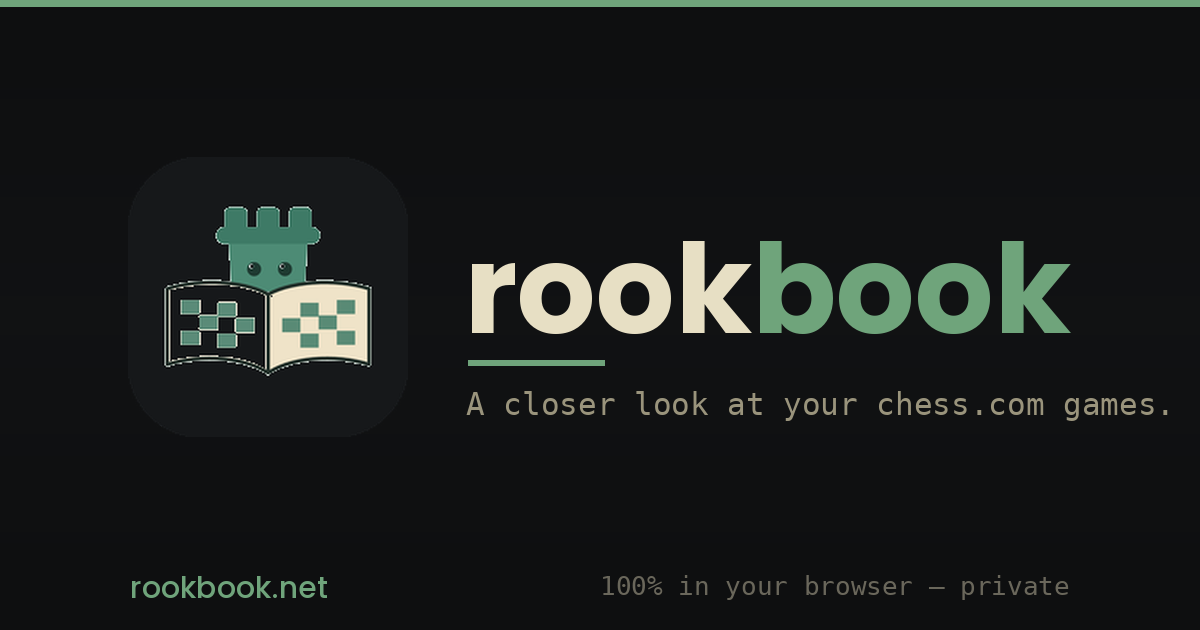
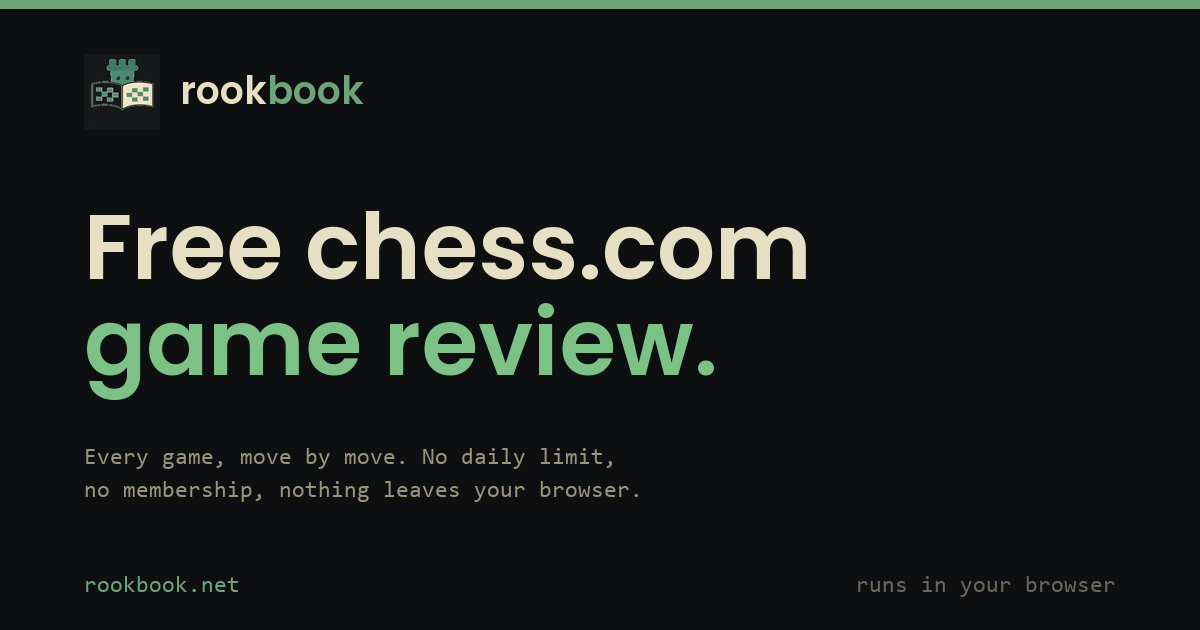
Lead with the free reviewer: new og card, welcome screen, outage page, review counter
og.png rebuilt to read Free chess.com game review instead of the generic
tagline. This is the card every shared link renders, including the forum
post, so it was the highest-visibility surface still saying nothing about
the flagship.

App welcome screen now headlines the free reviewer and adds Game Review as
the first feature card; it was missing from the first-run grid entirely.

is-chess-com-down.html gains its natural angle: when Chess.com is down
their Game Review goes with it, while Rookbook reviews cached games in the
browser. New section, CTA, FAQ entry and meta.

Homepage: missed-mates copy fleshed out, duplicate privacy line removed
from the hero lede, and a review counter that stays hidden until it clears
250 (peek=1 shows it early). Counter parses GoatCounter bodies regardless
of status, since a never-fired event answers 404 with a valid count.

Also: track review completions and changelog opens; win-chance arcs anchor
on the judged position value so the arithmetic closes; game-log flag/star
gutter fixed, where an ID-scoped padding rule outranked the column CSS so
16px of dead space was never actually removable.

diff --git a/app.html b/app.html
@@ -1124,17 +1124,21 @@
   .qmate{font-size:11px;cursor:help;border-bottom:1px dotted currentColor}
   .qmate.win{color:var(--win)}
   .qmate.loss{color:var(--loss)}
-  th.flagcol, td.flagcol{width:12px;padding-left:4px;padding-right:0;text-align:center}
-  th.starcol, td.starcol{width:16px;padding-left:0;padding-right:0;text-align:center}
+  th.flagcol, td.flagcol{width:12px;padding-left:2px;padding-right:0;text-align:center}
+  th.starcol, td.starcol{width:14px;padding-left:0;padding-right:0;text-align:center}
   th.starcol+th, td.starcol+td{padding-left:3px}
-  #panel-log td.flagcol, #panel-log th.flagcol{padding-left:4px}
-  #panel-log td.starcol+td, #panel-log th.starcol+th{padding-left:2px}
+  /* These MUST stay ID-scoped. #panel-log tbody td{padding:0 8px} above is specificity
+     (0,1,0,2) and beats a plain td.flagcol{padding-right:0} (0,0,1,1) — which is why the
+     class rules further up silently did nothing and the star sat in 16px of dead gutter. */
+  #panel-log tbody td.flagcol, #panel-log thead th.flagcol{padding-left:2px;padding-right:2px}
+  #panel-log tbody td.starcol, #panel-log thead th.starcol{padding-left:2px;padding-right:3px}
+  #panel-log td.starcol+td, #panel-log th.starcol+th{padding-left:0}
   /* Feed star column: match the Game Log's edge/gutter spacing (the .weekly tables otherwise pad
      the first cell 3px-left / 11px-right, so the star hugs the edge and sits too far from the date) */
   .weekly td.starcol{padding-left:8px;padding-right:8px}
   .gflag{
     display:inline-block;font-size:17px;line-height:1;
-    padding:2px 3px;
+    padding:2px 1px;
   }
   .gflag.threw{color:var(--loss)}
   .gflag.squander{color:#D98A4A}
@@ -1496,6 +1500,10 @@
     display:flex;flex-direction:row;align-items:center;justify-content:center;
     gap:26px;margin-bottom:22px;flex-wrap:wrap;
   }
+  .wel-em{color:var(--win)}
+  .wel-new{font-style:normal;font-size:9px;font-weight:700;letter-spacing:.08em;text-transform:uppercase;
+    color:var(--draw);border:1px solid rgba(211,178,90,.55);border-radius:3px;padding:1px 4px;
+    margin-left:6px;vertical-align:2px}
   .wel-logo{
     width:clamp(96px,10.5vw,128px);height:auto;aspect-ratio:1;
     flex:0 0 auto;display:block;
@@ -3153,11 +3161,13 @@ setTimeout(function(){ document.documentElement.classList.remove("booting"); }, 
         <picture><source srcset="/wel-logo.webp" type="image/webp"><img class="wel-logo" alt="" src="/wel-logo.png" width="320" height="320" fetchpriority="high" decoding="async"></picture>
         <div class="wel-word"><span class="wm-rook">rook</span><span class="wm-book">book</span></div>
       </div>
-      <h1>A closer look at your chess.com games.</h1>
+      <h1>Free game review for <span class="wel-em">every</span> chess.com game.</h1>
       <p class="wel-lede">
-        Enter your chess.com username and <b>rookbook</b> will pull your game history
-        using their API. rookbook analyzes every game, provides detailed insights into
-        your play, shows you every checkmate you ever missed, and much more.
+        Type your chess.com username and <b>rookbook</b> pulls your history through their public
+        API. Then review <b>any game, move by move</b>, with an engine running in this browser
+        &mdash; blunders, mistakes, and the checkmates you walked past, each on the board at the
+        move it mattered. <b>No daily limit and no membership.</b> Everything else it finds &mdash;
+        blown leads, missed mates, tilt, your clock &mdash; comes along with it.
       </p>
       <div class="wel-form">
         <div class="userfield">
@@ -3174,6 +3184,7 @@ setTimeout(function(){ document.documentElement.classList.remove("booting"); }, 
         Free. No account, no sign-in. Your games never leave your browser.
       </div>
       <div class="wel-grid">
+        <div><a class="wel-link" data-tab="review" href="#tab=review">Game Review <em class="wel-new">new</em></a>Any game, move by move, against an engine in your browser. Blunders and mistakes priced in win chance, missed mates, and the moves you got right. Unlimited, free, no chess.com membership.</div>
         <div><a class="wel-link" data-tab="insights" href="#tab=insights">Insights</a>What your games add up to. Where you're strong, where you're weak, how you spend your clock, and how you hold up after a bad run.</div>
         <div><a class="wel-link" data-tab="blown" href="#tab=blown">Blown Leads</a>Losses where you were up 3+ material at some point. Shows your peak lead, what you finished with, and how much you handed back.</div>
         <div><a class="wel-link" data-tab="mates" href="#tab=mates">Missed Mates</a>Every game where checkmate was on the board and you played something else, shown move by move so you finish the job next time.</div>
@@ -15745,6 +15756,10 @@ async function analyzeGame(){
     }
     $("revProg").hidden=true;
     $("revAnStatus").textContent = REV_CANCEL ? "Stopped." : "Analysis complete.";
+    // One event per game carried to the end — the running total behind the landing page's
+    // "N chess.com games reviewed for free". Cancelled runs don't count; a re-analysis of the
+    // same game does, which is the honest reading of "reviews run", not "distinct games".
+    if(!REV_CANCEL) track("review-run");
     // Save even when stopped — partial analysis is worth keeping now that it is labelled as such.
     // Keyed off the game captured at entry, never REV.game, which may have moved on.
     rememberReview(g.url, REV_ANALYSIS);
@@ -17064,7 +17079,9 @@ function refreshLogDot(){
 }
 function markLogSeen(){ LS.set("rookbook:log:seen", LATEST_LOG_V); refreshLogDot(); }
 refreshLogDot();
-$("logBtn").addEventListener("click",()=>{ logEl.hidden=false; lockScroll(); markLogSeen(); });
+// Tracked so there's an answer to "does anyone actually read this?" — the number that decides
+// whether the changelog ever earns a page of its own.
+$("logBtn").addEventListener("click",()=>{ logEl.hidden=false; lockScroll(); markLogSeen(); track("changelog"); });
 $("logClose").addEventListener("click",()=>{ logEl.hidden=true; unlockScroll(); });
 logEl.addEventListener("click",e=>{ if(e.target===logEl){ logEl.hidden=true; unlockScroll(); } });
 document.addEventListener("keydown",e=>{ if(e.key==="Escape" && !logEl.hidden){ logEl.hidden=true; unlockScroll(); } });

diff --git a/is-chess-com-down.html b/is-chess-com-down.html
@@ -4,7 +4,7 @@
 <meta charset="utf-8">
 <meta name="viewport" content="width=device-width,initial-scale=1">
 <title>Is Chess.com Down Right Now? Live Status Checker | Rookbook</title>
-<meta name="description" content="Is Chess.com down, slow, or not loading right now? Rookbook checks the Chess.com website and public API live from your browser — current status, response time, and whether it's just you.">
+<meta name="description" content="Is Chess.com down, slow, or not loading right now? Rookbook checks the website and public API live from your browser — current status, response time, and whether it's just you. Game Review down too? Rookbook's runs offline, free and unlimited.">
 <link rel="icon" type="image/png" href="/icon-192.png">
 <link rel="canonical" href="https://rookbook.net/is-chess-com-down.html">
 <meta property="og:type" content="website">
@@ -170,6 +170,24 @@
   <p>A quick cross-check: if the status above is red but friends are playing fine, the outage is probably on your network, not Chess.com&rsquo;s. Third-party trackers like <a href="https://downdetector.com/status/chess-com/" rel="nofollow noopener" target="_blank">Downdetector</a> and the <a href="https://twitter.com/chesscom" rel="nofollow noopener" target="_blank">@chesscom</a> account on X show whether other people are reporting the same thing.</p>
 </div>
 
+<h2>Game Review is down too &mdash; here&rsquo;s one that isn&rsquo;t</h2>
+<p>An outage takes Chess.com&rsquo;s Game Review with it. The engine that scores your games runs on
+  their servers, so when the API is red there is nothing to analyze with &mdash; and that is usually
+  the exact moment you want to look at the game you just lost.</p>
+<p><b>Rookbook&rsquo;s reviewer doesn&rsquo;t depend on Chess.com being up.</b> The engine runs inside
+  your browser, on the games already saved on your device, so it keeps working through an outage:
+  every blunder and mistake with what it cost you in win chance, the forced mates you walked past,
+  and the engine&rsquo;s move drawn on the board at the position it mattered. No daily limit and no
+  membership &mdash; the one-review-a-day cap doesn&rsquo;t exist here.</p>
+<p>One catch worth being straight about: pulling in <i>new</i> games needs Chess.com&rsquo;s API, so
+  during a full outage you can review everything already loaded but not fetch today&rsquo;s games. If
+  you&rsquo;ve opened Rookbook before, your history is already there waiting.</p>
+
+<div class="cta">
+  <p>Chess.com down? Your games are still reviewable.</p>
+  <a class="go" href="/free-chess-game-review.html">Free, unlimited game review that runs in your browser &rarr;</a>
+</div>
+
 <h2>Why Chess.com goes down</h2>
 <p>Most outages fall into a few buckets: scheduled maintenance (often overnight US time), a spike in traffic during a major tournament or a popular streamer&rsquo;s marathon, a content-delivery or Cloudflare hiccup that briefly cuts off a whole region, or a bug in a fresh release. Almost all of them are short. There&rsquo;s nothing you can do to speed a real outage along, so the useful move is to confirm it&rsquo;s them and come back in a few minutes.</p>
 
@@ -182,10 +200,11 @@
 <p><b>Is Chess.com down right now?</b> The live check at the top of this page answers that from your own browser and refreshes every 30 seconds. Green means Chess.com is responding for you; red means it isn&rsquo;t.</p>
 <p><b>Why is Chess.com not loading?</b> Either a Chess.com outage or something local &mdash; your network, cache, or a browser extension. If the checker shows Chess.com up while it won&rsquo;t load for you, the cause is on your side.</p>
 <p><b>How do I know if it&rsquo;s Chess.com or my internet?</b> If other sites load but this checker shows Chess.com not responding, it&rsquo;s Chess.com. If everything fails, it&rsquo;s your connection.</p>
+<p><b>Can I still review my games while Chess.com is down?</b> Yes, on Rookbook. Its game review runs an engine in your own browser against the games already saved on your device, so it works during an outage &mdash; free, with no daily limit and no membership. Fetching brand-new games still needs Chess.com&rsquo;s API to be up.</p>
 <p><b>Does Chess.com have an official status page?</b> Chess.com posts incidents through its support channels and <a href="https://twitter.com/chesscom" rel="nofollow noopener" target="_blank">@chesscom</a> on X. This page is an independent live check, not affiliated with Chess.com.</p>
 
 <h2>Related</h2>
-<ul class="rel"><li><a href="/">Rookbook &mdash; free chess.com game tracker</a></li><li><a href="/how-to-review-your-chess-games.html">How to review your chess games</a></li><li><a href="/chess-com-banned-opponents.html">How many of your chess.com opponents got banned?</a></li><li><a href="/find-your-missed-checkmates.html">Find the checkmates you missed</a></li><li><a href="/glossary.html">Chess stats glossary</a></li></ul>
+<ul class="rel"><li><a href="/">Rookbook &mdash; free chess.com game tracker</a></li><li><a href="/free-chess-game-review.html">Free chess.com game review &mdash; no daily limit</a></li><li><a href="/how-to-review-your-chess-games.html">How to review your chess games</a></li><li><a href="/chess-com-banned-opponents.html">How many of your chess.com opponents got banned?</a></li><li><a href="/find-your-missed-checkmates.html">Find the checkmates you missed</a></li><li><a href="/glossary.html">Chess stats glossary</a></li></ul>
 
 <footer>
   <p>Rookbook is a free chess.com game tracker. <a href="/">Try it &rarr;</a></p>

diff --git a/index.html b/index.html
@@ -237,6 +237,11 @@
        the fold at 812px, and below it on anything smaller. */
     .scene.hero .card{order:0}
   }
+  /* Social proof for the reviewer. Stays hidden until the tally is genuinely impressive —
+     "31 games reviewed" argues against us. It reveals itself once it clears the floor. */
+  .revcount{margin-top:16px;font-family:var(--mono);font-size:12.5px;color:var(--dim);
+    border-left:2px solid var(--green);padding-left:11px}
+  .revcount b{color:var(--win);font-size:15px}
   /* banned-opponents card: strike-styled rows with the fair-play chip */
   .bnlist{font-size:12.5px}
   .bn-row{display:flex;align-items:center;gap:10px;padding:9px 11px;margin-bottom:6px;
@@ -327,7 +332,7 @@
   <section class="scene hero" id="hero">
     <div class="copy">
       <h1>See how you<br><span class="em">actually play.</span></h1>
-      <p class="sub lede">rookbook reads your Chess.com history and shows you the whole picture &mdash; your <b>style and strengths</b>, the <a class="jump" href="#hero">blown leads</a> and <a class="jump" href="#mate">missed mates</a>, and the <a class="jump" href="#banned">opponents who were later banned</a> for cheating. <a class="jump" href="#review">Free game review</a>, move by move, as many games as you like. Nothing leaves your browser.</p>
+      <p class="sub lede">rookbook reads your Chess.com history and shows you the whole picture &mdash; your <b>style and strengths</b>, the <a class="jump" href="#hero">blown leads</a> and <a class="jump" href="#mate">missed mates</a>, and the <a class="jump" href="#banned">opponents who were later banned</a> for cheating. <a class="jump" href="#review">Free game review</a>, move by move, as many games as you like.</p>
       <div class="form">
         <input type="text" id="u1" placeholder="your chess.com username" spellcheck="false" autocomplete="off" aria-label="chess.com username">
         <button type="button" data-go="u1">Analyze my games</button>
@@ -369,6 +374,7 @@
         reviews <b>any game, move by move</b>, with an engine running in your browser &mdash; the
         blunders, the mistakes, and the checkmates you walked past, each one replayed on the board
         at the exact position. No daily limit, no account, no paywall.</p>
+      <div class="revcount" id="revCount" hidden></div>
     </div>
     <div class="card">
       <div class="card-head"><span class="card-res dim">51 moves checked</span></div>
@@ -391,9 +397,14 @@
   <section class="scene" id="mate">
     <div class="copy">
       <h2>The mates you <span class="em">never saw.</span></h2>
-      <p class="sub">Every game where a forced checkmate was on the board and you played
-        something else. <b>Found and replayed to the exact move</b>, so the pattern sticks
-        and you finish it next time. Even the games you won.</p>
+      <p class="sub">A forced mate was on the board and you played something else. It happens far
+        more than anyone thinks &mdash; and you never find out, because the game moves on and nobody
+        tells you. rookbook scans <b>every game in your history</b>, finds the ones where a mate was
+        available, and replays each to the exact position with the move you missed and the move you
+        played instead.</p>
+      <p class="sub">Including the games you <b>won</b>. Those are the instructive ones: a mate in two
+        you walked past on move 20 is the same blind spot that will cost you a winning position next
+        week, whether or not you got away with it this time.</p>
     </div>
     <div class="card">
       <div class="card-head"><span class="card-res bad">Bh3#</span></div>
@@ -618,6 +629,29 @@
         el.scrollIntoView({behavior: reduce ? "auto" : "smooth", block: "start"});
       });
     });
+  })();
+
+  // social proof: games run through the free reviewer. Same GoatCounter-counter trick as the
+  // lookup tally below, but gated — the event only started counting on 31 Jul 2026, so it stays
+  // invisible until it clears a floor worth bragging about rather than showing a cold-start number.
+  (function(){
+    var el=document.getElementById("revCount"); if(!el) return;
+    var FLOOR=250;
+    // Peek at the live number before it clears the floor: load the page with ?peek=1 (or #peek).
+    // Shows the real tally with a marker so it can never be mistaken for the public line.
+    var peek=/[?&]peek=1/.test(location.search)||location.hash==="#peek";
+    // GoatCounter answers 404 — with a perfectly good {"count":"0"} body — for an event that has
+    // never fired. r.ok would throw that away, so parse the body regardless of status.
+    fetch("https://rookbookchess.goatcounter.com/counter/event/review-run.json")
+      .then(function(r){ return r.text(); })
+      .then(function(t){ var d=null; try{ d=JSON.parse(t); }catch(e){ return; }
+        if(!d||d.count==null) return;
+        var n=parseInt(String(d.count).replace(/,/g,""),10)||0;
+        if(n<FLOOR && !peek) return;
+        el.innerHTML="<b>"+n.toLocaleString()+"</b> chess.com games reviewed for free on rookbook"
+          +(n<FLOOR?' <span style="opacity:.6">(preview — hidden publicly until '+FLOOR+')</span>':"");
+        el.hidden=false; })
+      .catch(function(){});
   })();
 
   // social proof: total chess.com accounts looked up on Rookbook (reads the app's GoatCounter fetch tally)
